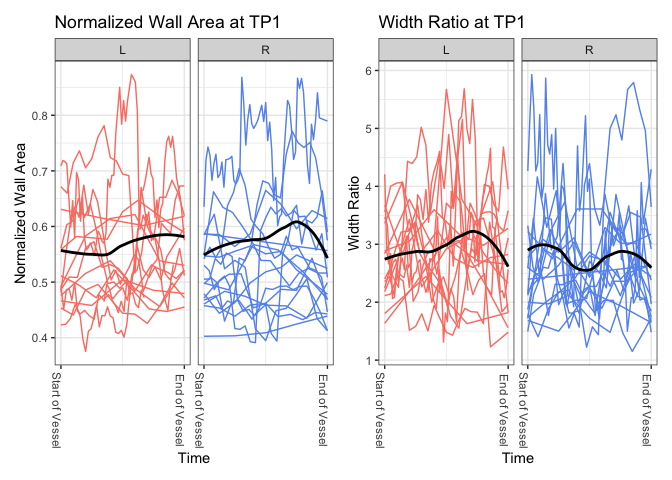
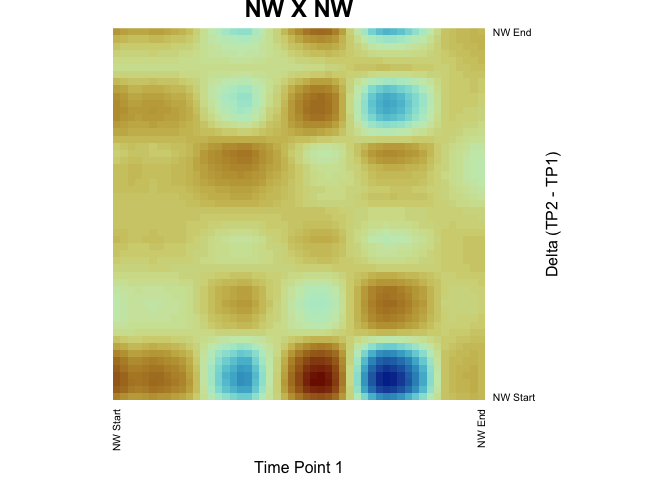
changed walli vig

diff --git a/vignettes/WALLI.md b/vignettes/WALLI.md
@@ -142,12 +142,11 @@ delta %>%
   labs(title = "Normalized Wall Area at TP1",
        x = "Time",
        y = "Normalized Wall Area") +
-  facet_wrap(~side) +
   scale_x_continuous(breaks = c(0, 1), labels = c("Start of Vessel", "End of Vessel"))+
   theme(legend.position = "none",
         axis.text.x = element_text(angle = -90)) +
   scale_color_manual(values = c("salmon", "cornflowerblue")) +
-  stat_smooth(aes(group = side), method = "loess", se = F, color = "black") -> wa1
+  stat_smooth(aes(group = 1), method = "loess", se = F, color = "black") -> wa1
 
 delta %>%
   ggplot(aes(x = t, y = wt_rat_x, group = plaque_id, color = side)) +
@@ -156,12 +155,11 @@ delta %>%
   labs(title = "Width Ratio at TP1",
        x = "Time",
        y = "Width Ratio") +
-  facet_wrap(~side) +
   scale_x_continuous(breaks = c(0, 1), labels = c("Start of Vessel", "End of Vessel"))+
   theme(legend.position = "none",
         axis.text.x = element_text(angle = -90)) +
   scale_color_manual(values = c("salmon", "cornflowerblue")) +
-  stat_smooth(aes(group = side), method = "loess", se = F, color = "black") -> wt1
+  stat_smooth(aes(group = 1), method = "loess", se = F, color = "black") -> wt1
 
 delta %>%
   ggplot(aes(x = t, y = norm_wall_y, group = plaque_id, color = side)) +
@@ -170,12 +168,11 @@ delta %>%
   labs(title = "Normalized Wall Area at TP2",
        x = "Time",
        y = "Normalized Wall Area") +
-  facet_wrap(~side) +
   scale_x_continuous(breaks = c(0, 1), labels = c("Start of Vessel", "End of Vessel"))+
   theme(legend.position = "none",
         axis.text.x = element_text(angle = -90)) +
   scale_color_manual(values = c("salmon", "cornflowerblue")) +
-  stat_smooth(aes(group = side), method = "loess", se = F, color = "black") -> wa2
+  stat_smooth(aes(group = 1), method = "loess", se = F, color = "black") -> wa2
 
 delta %>%
   ggplot(aes(x = t, y = wt_rat_y, group = plaque_id, color = side)) +
@@ -184,12 +181,11 @@ delta %>%
   labs(title = "Width Ratio at TP2",
        x = "Time",
        y = "Width Ratio") +
-  facet_wrap(~side) +
   scale_x_continuous(breaks = c(0, 1), labels = c("Start of Vessel", "End of Vessel"))+
   theme(legend.position = "none",
         axis.text.x = element_text(angle = -90)) +
   scale_color_manual(values = c("salmon", "cornflowerblue")) +
-  stat_smooth(aes(group = side), method = "loess", se = F, color = "black") -> wt2
+  stat_smooth(aes(group = 1), method = "loess", se = F, color = "black") -> wt2
 
 delta %>%
   ggplot(aes(x = t, y = norm_wall, group = plaque_id, color = side)) +
@@ -198,12 +194,11 @@ delta %>%
   labs(title = "Change in Normalized Wall Area Between Time Points",
        x = "Time",
        y = "Change in Normalized Wall Area") +
-  facet_wrap(~side) +
   scale_x_continuous(breaks = c(0, 1), labels = c("Start of Vessel", "End of Vessel"))+
   theme(legend.position = "none",
         axis.text.x = element_text(angle = -90)) +
   scale_color_manual(values = c("salmon", "cornflowerblue")) +
-  stat_smooth(aes(group = side), method = "loess", se = F, color = "black") -> wa_delta
+  stat_smooth(aes(group = 1), method = "loess", se = F, color = "black") -> wa_delta
 
 delta %>%
   ggplot(aes(x = t, y = wt_rat, group = plaque_id, color = side)) +
@@ -212,29 +207,28 @@ delta %>%
   labs(title = "Change in Width Ratio Between Time Points",
        x = "Time",
        y = "Change in Width Ratio") +
-  facet_wrap(~side) +
   scale_x_continuous(breaks = c(0, 1), labels = c("Start of Vessel", "End of Vessel"))+
   theme(legend.position = "none",
         axis.text.x = element_text(angle = -90)) +
   scale_color_manual(values = c("salmon", "cornflowerblue")) +
-  stat_smooth(aes(group = side), method = "loess", se = F, color = "black") -> wt_delta
+  stat_smooth(aes(group = 1), method = "loess", se = F, color = "black") -> wt_delta
 
 wa1|wt1;
 ```
 
-![](WALLI_files/figure-gfm/unnamed-chunk-15-1.png)<!-- -->
+![](WALLI_files/figure-gfm/unnamed-chunk-11-1.png)<!-- -->
 
 ``` r
 wa2|wt2;
 ```
 
-![](WALLI_files/figure-gfm/unnamed-chunk-15-2.png)<!-- -->
+![](WALLI_files/figure-gfm/unnamed-chunk-11-2.png)<!-- -->
 
 ``` r
 wa_delta|wt_delta
 ```
 
-![](WALLI_files/figure-gfm/unnamed-chunk-15-3.png)<!-- -->
+![](WALLI_files/figure-gfm/unnamed-chunk-11-3.png)<!-- -->
 
 ### Mean Functions
 
@@ -263,7 +257,7 @@ mus %>%
        color = "Function")
 ```
 
-![](WALLI_files/figure-gfm/unnamed-chunk-16-1.png)<!-- -->
+![](WALLI_files/figure-gfm/unnamed-chunk-12-1.png)<!-- -->
 
 ### Eigenfunctions
 
@@ -287,7 +281,7 @@ eigs %>%
        color = "Time Point")
 ```
 
-![](WALLI_files/figure-gfm/unnamed-chunk-17-1.png)<!-- -->
+![](WALLI_files/figure-gfm/unnamed-chunk-13-1.png)<!-- -->
 
 ``` r
 
@@ -301,7 +295,7 @@ eigs %>%
        color = "Time Point")
 ```
 
-![](WALLI_files/figure-gfm/unnamed-chunk-17-2.png)<!-- -->
+![](WALLI_files/figure-gfm/unnamed-chunk-13-2.png)<!-- -->
 
 ``` r
 
@@ -315,7 +309,7 @@ eigs %>%
        color = "Time Point")
 ```
 
-![](WALLI_files/figure-gfm/unnamed-chunk-17-3.png)<!-- -->
+![](WALLI_files/figure-gfm/unnamed-chunk-13-3.png)<!-- -->
 
 ## MFPCA
 
@@ -377,11 +371,6 @@ heatmap(normalize_matrix(Betahat[1:52, 1:51]),
         main = "NW X NW",
         breaks = brk,
         col = scico::scico(n = 100, palette = "roma"))
-```
-
-![](WALLI_files/figure-gfm/unnamed-chunk-19-1.png)<!-- -->
-
-``` r
 
 heatmap(normalize_matrix(Betahat[1:52, 52:102]), 
         Rowv = NA, Colv = NA,
@@ -391,11 +380,6 @@ heatmap(normalize_matrix(Betahat[1:52, 52:102]),
         main = "NW X WR",
         breaks = brk,
         col = scico::scico(n = 100, palette = "roma"))
-```
-
-![](WALLI_files/figure-gfm/unnamed-chunk-19-2.png)<!-- -->
-
-``` r
 
 heatmap(normalize_matrix(normBetahat[53:104, 1:51]), 
         Rowv = NA, Colv = NA,
@@ -405,11 +389,6 @@ heatmap(normalize_matrix(normBetahat[53:104, 1:51]),
         main = "WR X NW",
         breaks = brk,
         col = scico::scico(n = 100, palette = "roma"))
-```
-
-![](WALLI_files/figure-gfm/unnamed-chunk-19-3.png)<!-- -->
-
-``` r
 
 heatmap(normalize_matrix(normBetahat[53:104, 52:102]), 
         Rowv = NA, Colv = NA,
@@ -424,7 +403,7 @@ legend(x="right",
        fill= scico::scico(n = 3, palette = "roma"))
 ```
 
-![](WALLI_files/figure-gfm/unnamed-chunk-19-4.png)<!-- -->
+![](WALLI_files/figure-gfm/unnamed-chunk-15-1.png)![](WALLI_files/figure-gfm/unnamed-chunk-15-2.png)![](WALLI_files/figure-gfm/unnamed-chunk-15-3.png)![](WALLI_files/figure-gfm/unnamed-chunk-15-4.png)
 
 ### 3D Plot
 
@@ -481,6 +460,19 @@ res_resp = FunOnFun::irregMFPCA(
 Bhat = FunOnFun::funOnFun(res_resp, res_pred)
 Betahat = FunOnFun::reconBeta(res_resp, res_pred, Bhat$Bhat)
 
+rvec[1] = "NW Start"
+rvec[52] = "NW End"
+rvec[53] = "WR Start"
+rvec[104] = "WR End"
+
+cvec[1] = "NW Start"
+cvec[51] = "NW End"
+cvec[52] = "WR Start"
+cvec[102] = "WR End"
+
+rownames(Betahat) = rvec
+colnames(Betahat) = cvec
+
 par(mfrow = c(2, 2))
 
 heatmap(normalize_matrix(Betahat[1:52, 1:51]),
@@ -491,11 +483,6 @@ heatmap(normalize_matrix(Betahat[1:52, 1:51]),
         main = "NW X NW",
         breaks = brk,
         col = scico::scico(n = 100, palette = "roma"))
-```
-
-![](WALLI_files/figure-gfm/unnamed-chunk-22-1.png)<!-- -->
-
-``` r
 
 heatmap(normalize_matrix(Betahat[1:52, 52:102]),
         Rowv = NA, Colv = NA,
@@ -505,11 +492,6 @@ heatmap(normalize_matrix(Betahat[1:52, 52:102]),
         main = "NW X WR",
         breaks = brk,
         col = scico::scico(n = 100, palette = "roma"))
-```
-
-![](WALLI_files/figure-gfm/unnamed-chunk-22-2.png)<!-- -->
-
-``` r
 
 heatmap(normalize_matrix(Betahat[53:104, 1:51]),
         Rowv = NA, Colv = NA,
@@ -519,11 +501,6 @@ heatmap(normalize_matrix(Betahat[53:104, 1:51]),
         main = "WR X NW",
         breaks = brk,
         col = scico::scico(n = 100, palette = "roma"))
-```
-
-![](WALLI_files/figure-gfm/unnamed-chunk-22-3.png)<!-- -->
-
-``` r
 
 heatmap(normalize_matrix(Betahat[53:104, 52:102]),
         Rowv = NA, Colv = NA,
@@ -539,4 +516,4 @@ legend(x="right",
        fill= scico::scico(n = 3, palette = "roma"))
 ```
 
-![](WALLI_files/figure-gfm/unnamed-chunk-22-4.png)<!-- -->
+![](WALLI_files/figure-gfm/unnamed-chunk-18-1.png)![](WALLI_files/figure-gfm/unnamed-chunk-18-2.png)![](WALLI_files/figure-gfm/unnamed-chunk-18-3.png)![](WALLI_files/figure-gfm/unnamed-chunk-18-4.png)
